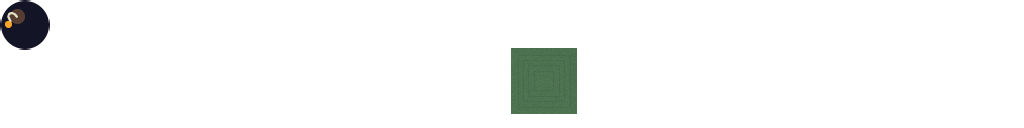
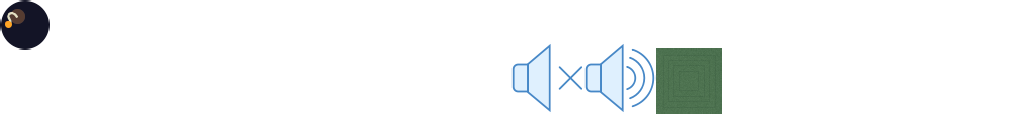
mute/unmute image

Changed region(s): [[0.5, 0.3438, 0.7188, 0.9062]]

diff --git a/core/src/com/mygdx/game/BomberMan.java b/core/src/com/mygdx/game/BomberMan.java
@@ -4,6 +4,10 @@ import com.badlogic.gdx.Game;
 import com.badlogic.gdx.Gdx;
 import com.badlogic.gdx.Input;
 import com.badlogic.gdx.Preferences;
+import com.badlogic.gdx.graphics.g2d.TextureAtlas;
+import com.badlogic.gdx.scenes.scene2d.Stage;
+import com.badlogic.gdx.scenes.scene2d.ui.Image;
+import com.badlogic.gdx.utils.viewport.FitViewport;
 import com.mygdx.loader.CustomAssetManager;
 import com.mygdx.manager.SoundManager;
 import com.mygdx.views.*;
@@ -21,6 +25,18 @@ public class BomberMan extends Game {
 		super.render();
 		if(Gdx.input.isKeyJustPressed(Input.Keys.M)){
 			soundManager.setMuted(!soundManager.isMuted());
+			if(soundManager.isMuted()){
+				unMuted.setVisible(false);
+				muted.setVisible(true);
+			}
+			else{
+				muted.setVisible(false);
+				unMuted.setVisible(true);
+			}
+		}
+		if(getScreen() != loadingScreen){
+			stage.act(Math.min(Gdx.graphics.getDeltaTime(), 1/30f));
+			stage.draw();
 		}
 	}
 
@@ -70,6 +86,10 @@ public class BomberMan extends Game {
 	public CustomAssetManager assMan;
 	public SoundManager soundManager;
 
+	private Stage stage;
+	private Image muted;
+	private Image unMuted;
+
 	@Override
 	public void create() {
 		prefs = Gdx.app.getPreferences("options");
@@ -82,10 +102,24 @@ public class BomberMan extends Game {
 		if(prefs.getFloat("menuVol", MENU_VOLUME) < 0.0f)
 			prefs.putFloat("menuVol", 0.0f);
 		prefs.flush();
+
 		assMan = new CustomAssetManager();
 		loadingScreen = new LoadingScreen(this);
 		setScreen(loadingScreen);
 		soundManager = new SoundManager(this);
+
+		stage = new Stage(new FitViewport(Gdx.graphics.getWidth(), Gdx.graphics.getHeight()));
+		Gdx.input.setInputProcessor(stage);
+		TextureAtlas atlas = assMan.manager.get("loading/loading.atlas");
+		unMuted = new Image(atlas.findRegion("speaker"));
+		unMuted.setScale(0.4f);
+		unMuted.setPosition(Gdx.graphics.getWidth() - 35.0f, Gdx.graphics.getHeight() - 35.0f);
+		muted = new Image(atlas.findRegion("mute"));
+		muted.setScale(0.4f);
+		muted.setPosition(Gdx.graphics.getWidth() - 35.0f, Gdx.graphics.getHeight() - 35.0f);
+		muted.setVisible(false);
+		stage.addActor(unMuted);
+		stage.addActor(muted);
 	}
 
 	public void changeScreen(int screen){
@@ -116,5 +150,6 @@ public class BomberMan extends Game {
 	@Override
 	public void dispose(){
 		assMan.manager.dispose();
+		stage.dispose();
 	}
 }

diff --git a/core/src/com/mygdx/entity/systems/GUISystem.java b/core/src/com/mygdx/entity/systems/GUISystem.java
@@ -44,7 +44,7 @@ public class GUISystem extends IteratingSystem {
         for(int i = 1; i <= 4; i++){
             buttons[i] = new ImageButton(new TiledDrawable(gameAtlas.findRegion("player/Bman_head")));
             labels[i] = new Label("3", skin, "title", "white");
-            table.row().pad(0.0f, 20.0f, 45.0f, 0.0f);
+            table.row().pad(30.0f, 20.0f, 0.0f, 0.0f);
             table.add(buttons[i]);
             table.add(labels[i]);
         }
